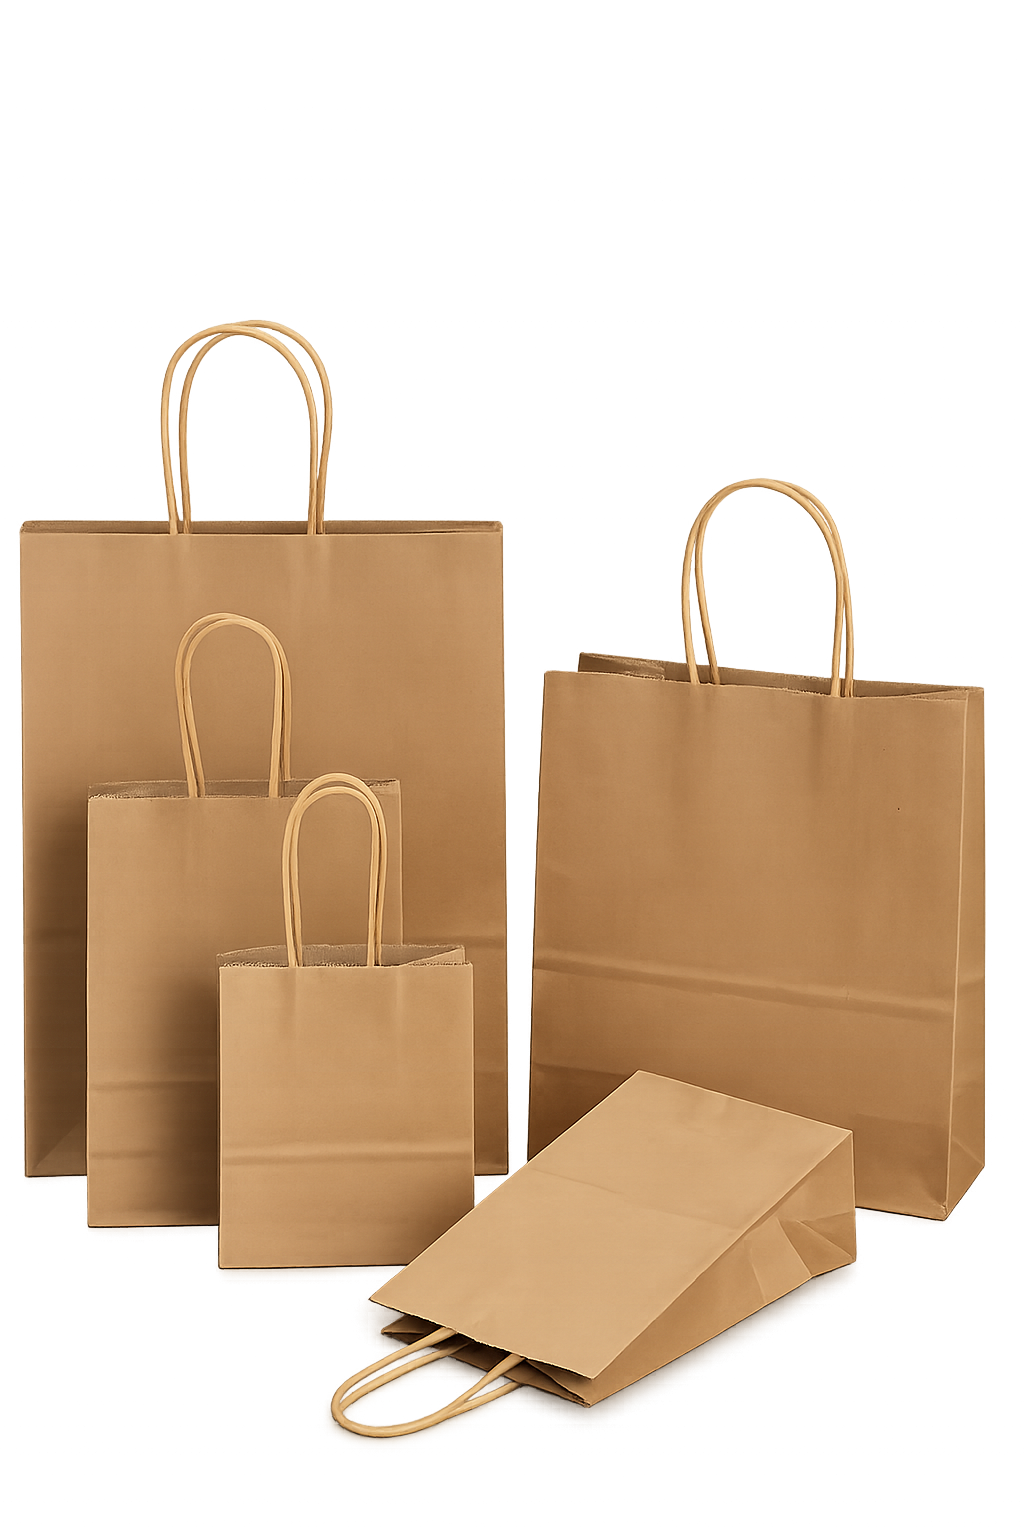
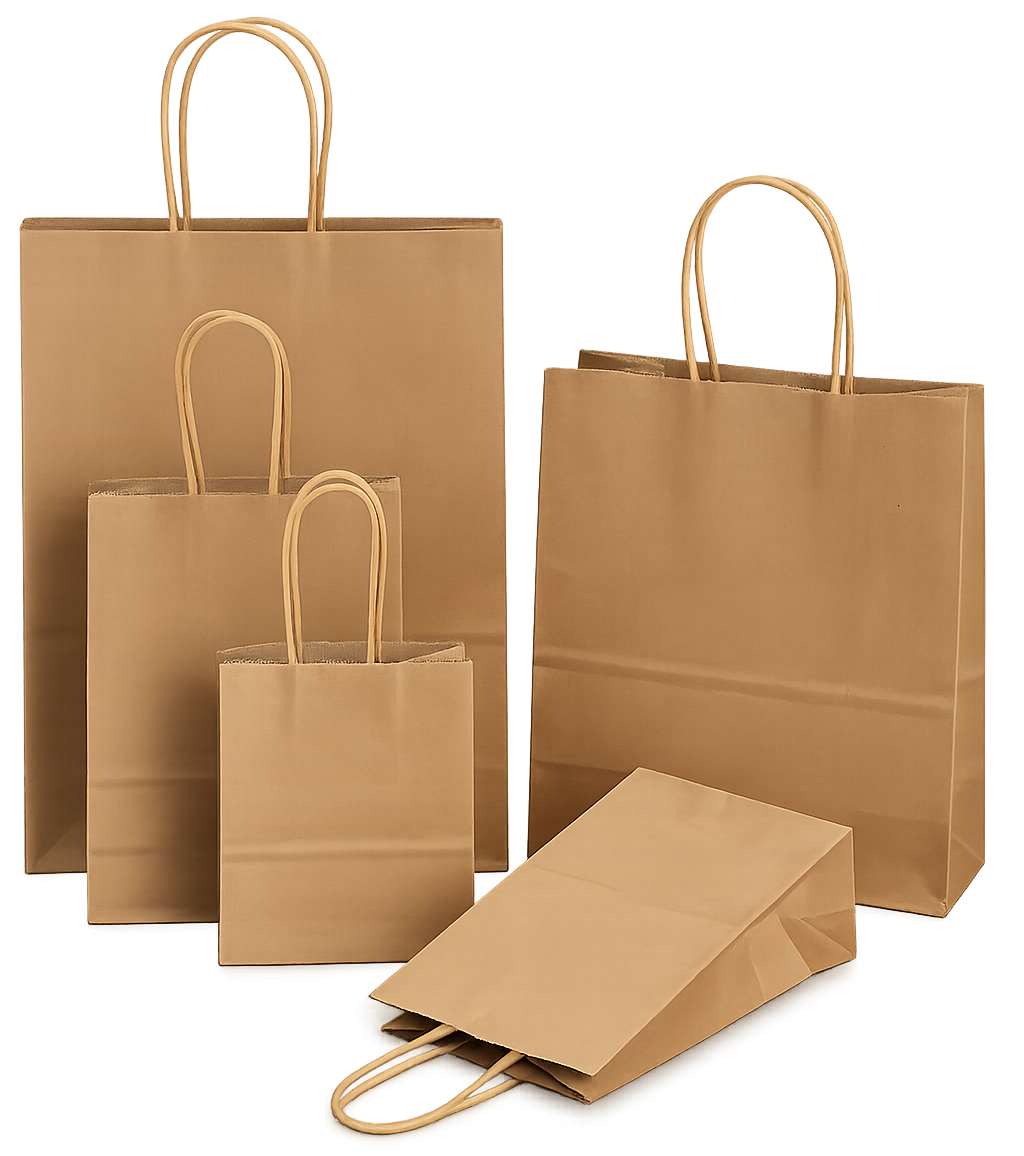
fourth commit

diff --git a/css/style.css b/css/style.css
@@ -419,6 +419,12 @@ img {
     color: var(--color-text);
     position: relative;
     transition: var(--transition);
+    display: flex;
+    flex-direction: column;
+}
+
+.collection-card > a {
+    align-self: center;
 }
 
 .collection-card:hover {
@@ -1089,6 +1095,7 @@ img {
     margin-top: 60px;
 }
 
+
 .promo-banner {
     background-color: var(--color-primary);
     color: var(--color-white);
@@ -1096,18 +1103,33 @@ img {
     display: flex;
     position: relative;
     overflow: hidden;
-    align-items: center;
-    justify-content: space-between;
+    flex-wrap: wrap;
+    padding-bottom: 60vw;
 }
 
-.promo-banner>img {
-    width: 30%;
+.promo-banner__img {
+    position: absolute;
+    top: 100%;
+    right: 100%;
+    transform: translate(83%, -40%);
+    width: 150%;
+    aspect-ratio: 1/1;
+    background-color: #e05252;
+    border-radius: 50%;
+    overflow: hidden;
+}
+
+.promo-banner__img img {
+    width: 100%;
+    height: 100%;
+    object-fit: cover;
+    object-position: top;
 }
 
 .promo-banner__content {
     position: relative;
     z-index: 2;
-    max-width: 90%;
+    width: 100%;
     padding: 40px;
 }
 
@@ -1322,7 +1344,7 @@ select.form-control {
 
 /* --- Inline Styles Replacement --- */
 .bg-about-header {
-    background-image: url('../assets/img/about-us/Rectangle%207.png');
+    background-image: url('../assets/img/new/about\ banner\ image.png');
 }
 
 .bg-video-section {
@@ -1525,6 +1547,20 @@ select.form-control {
         grid-template-columns: 1fr 1fr;
     }
 
+    .promo-banner {
+        padding-bottom: 0;
+    }
+
+    .promo-banner__img {
+        top: 100%;
+        left: 100%;
+        transform: translate(-25%, -75%);
+    }
+
+    .promo-banner__img img {
+        object-position: right center;
+    }
+
     .promo-banner__content {
         max-width: 60%;
     }
@@ -1558,20 +1594,6 @@ select.form-control {
     .contact-layout {
         grid-template-columns: 1fr 1fr;
         align-items: start;
-    }
-
-    .promo-banner:nth-child(1) {
-        background-size: auto 100%;
-        background-position: 120% center;
-        background-repeat: no-repeat;
-        background-image: url('../assets/img/new/Frame\ 1597882199.png');
-    }
-
-    .promo-banner:nth-child(2) {
-        background-size: auto 100%;
-        background-position: 120% center;
-        background-repeat: no-repeat;
-        background-image: url('../assets/img/new/Frame\ 1597882201.png');
     }
 
     .page-header__title {

diff --git a/index.html b/index.html
@@ -95,8 +95,9 @@
                         <div class="collection-card__content">
                             <h3>Paper Bag</h3>
                             <p>Customized eco-friendly paper bags for stylish, durable, and sustainable brand packaging.</p>
-                            <a href="product-detail.html" class="collection-card__link"><i class='bx bx-right-arrow-alt'></i></a>
+                            <!-- <a href="product-detail.html" class="collection-card__link"><i class='bx bx-right-arrow-alt'></i></a> -->
                         </div>
+                        <a href="product-detail.html" class="btn btn--primary btn--sm">Enquiry <i class="bx bx-right-arrow-alt"></i></a>
                     </div>
                     
                     <!-- Card 2 -->
@@ -108,8 +109,9 @@
                         <div class="collection-card__content">
                             <h3>Non - Woven Bag</h3>
                             <p>Eco-friendly, durable, and reusable bags designed for everyday convenience.</p>
-                            <a href="product-detail.html" class="collection-card__link"><i class='bx bx-right-arrow-alt'></i></a>
+                            <!-- <a href="product-detail.html" class="collection-card__link"><i class='bx bx-right-arrow-alt'></i></a> -->
                         </div>
+                        <a href="product-detail.html" class="btn btn--primary btn--sm">Enquiry <i class="bx bx-right-arrow-alt"></i></a>
                     </div>
                     
                     <!-- Card 3 -->
@@ -121,8 +123,9 @@
                         <div class="collection-card__content">
                             <h3>Retail Bag</h3>
                             <p>Customized eco-friendly paper bags for stylish, durable, and sustainable brand packaging.</p>
-                            <a href="product-detail.html" class="collection-card__link"><i class='bx bx-right-arrow-alt'></i></a>
+                            <!-- <a href="product-detail.html" class="collection-card__link"><i class='bx bx-right-arrow-alt'></i></a> -->
                         </div>
+                        <a href="product-detail.html" class="btn btn--primary btn--sm">Enquiry <i class="bx bx-right-arrow-alt"></i></a>
                     </div>
                 </div>
                 
@@ -175,7 +178,7 @@
         <!-- Our Process Section -->
         <section class="process section-padding bg-primary">
             <div class="container">
-                <div class="section-heading section-heading--light mb-50">
+                <div class="section-heading section-heading--center section-heading--light mb-50">
                     <h2 class="section-title">Our Process</h2>
                 </div>
                 
@@ -224,7 +227,7 @@
         <!-- Clients Section -->
         <section class="clients section-padding">
             <div class="container">
-                <div class="section-heading">
+                <div class="section-heading section-heading--center">
                     <h2 class="section-title">Our <span class="text-secondary">Clients</span></h2>
                 </div>
                 
@@ -402,7 +405,7 @@
             <div class="footer__col">
                 <h4 class="footer__title">Address</h4>
                 <p class="footer__address">8/698 Seadapalayam Road,<br>Arulpuram(PO), Palladam(TK),<br>Tirupur, Tamilnadu, INDIA.</p>
-                <p class="footer__contact">Phone : [phone redacted]<br>&nbsp;&nbsp;&nbsp;&nbsp;&nbsp;&nbsp;&nbsp;&nbsp;&nbsp;&nbsp;&nbsp;&nbsp;&nbsp;[phone redacted]</p>
+                <p class="footer__contact">Phone : [phone redacted], [phone redacted]</p>
                 <p class="footer__contact">Email : [email redacted]</p>
             </div>
         </div>

diff --git a/products.html b/products.html
@@ -210,7 +210,7 @@
                 <!-- Promotional Banners -->
                 <div class="promo-banners">
                     <!-- Banner 1 -->
-                    <div class="promo-banner" class="promo-banner bg-promo-1">
+                    <div class="promo-banner bg-promo-1">
                         <div class="promo-banner__content">
                             <h3 class="promo-banner__title">Customization Options</h3>
                             <p class="mb-50 text-white" class="mb-50 text-white opacity-90">We provide complete customization solutions to create packaging that perfectly represents your business identity.</p>
@@ -223,17 +223,21 @@
                             </ul>
                             <a href="#" class="btn btn--outline-light">What's App <i class='bx bxl-whatsapp'></i></a>
                         </div>
-                        <!-- <img src="assets/img/new/Frame 1597882199.png" alt=""> -->
+                        <div class="promo-banner__img">
+                            <img src="assets/img/home-page/hero-banner.png" alt="">
+                        </div>
                     </div>
                     
                     <!-- Banner 2 -->
-                    <div class="promo-banner" class="promo-banner bg-promo-2">
+                    <div class="promo-banner bg-promo-2">
                         <div class="promo-banner__content">
                             <h3 class="promo-banner__title">Looking for Bulk Packaging Orders?</h3>
                             <p class="mb-50 text-white" class="mb-50 text-white opacity-90">Get customized eco-friendly paper bags manufactured according to your business requirements with competitive pricing and premium quality.</p>
                             <a href="contact.html" class="btn btn--outline-light">Contact Us <i class='bx bx-right-arrow-alt'></i></a>
                         </div>
-                        <!-- <img src="assets/img/new/Frame 1597882201.png" alt=""> -->
+                        <div class="promo-banner__img">
+                            <img src="assets/img/home-page/home-about-sec.png" alt="">
+                        </div>
                     </div>
                 </div>
             </div>
@@ -395,7 +399,7 @@
             <div class="footer__col">
                 <h4 class="footer__title">Address</h4>
                 <p class="footer__address">8/698 Seadapalayam Road,<br>Arulpuram(PO), Palladam(TK),<br>Tirupur, Tamilnadu, INDIA.</p>
-                <p class="footer__contact">Phone : [phone redacted]<br>&nbsp;&nbsp;&nbsp;&nbsp;&nbsp;&nbsp;&nbsp;&nbsp;&nbsp;&nbsp;&nbsp;&nbsp;&nbsp;[phone redacted]</p>
+                <p class="footer__contact">Phone : [phone redacted], [phone redacted]</p>
                 <p class="footer__contact">Email : [email redacted]</p>
             </div>
         </div>

diff --git a/about.html b/about.html
@@ -47,7 +47,7 @@
 
     <main>
         <!-- Page Header -->
-        <section class="page-header" class="page-header bg-about-header">
+        <section class="page-header bg-about-header">
             <div class="container">
                 <span class="page-header__subtitle">About</span>
                 <h1 class="page-header__title">Supreme Pro Bag</h1>
@@ -208,7 +208,7 @@
             <div class="footer__col">
                 <h4 class="footer__title">Address</h4>
                 <p class="footer__address">8/698 Seadapalayam Road,<br>Arulpuram(PO), Palladam(TK),<br>Tirupur, Tamilnadu, INDIA.</p>
-                <p class="footer__contact">Phone : [phone redacted]<br>&nbsp;&nbsp;&nbsp;&nbsp;&nbsp;&nbsp;&nbsp;&nbsp;&nbsp;&nbsp;&nbsp;&nbsp;&nbsp;[phone redacted]</p>
+                <p class="footer__contact">Phone : [phone redacted], [phone redacted]</p>
                 <p class="footer__contact">Email : [email redacted]</p>
             </div>
         </div>

diff --git a/contact.html b/contact.html
@@ -153,7 +153,7 @@
             <div class="footer__col">
                 <h4 class="footer__title">Address</h4>
                 <p class="footer__address">8/698 Seadapalayam Road,<br>Arulpuram(PO), Palladam(TK),<br>Tirupur, Tamilnadu, INDIA.</p>
-                <p class="footer__contact">Phone : [phone redacted]<br>&nbsp;&nbsp;&nbsp;&nbsp;&nbsp;&nbsp;&nbsp;&nbsp;&nbsp;&nbsp;&nbsp;&nbsp;&nbsp;[phone redacted]</p>
+                <p class="footer__contact">Phone : [phone redacted], [phone redacted]</p>
                 <p class="footer__contact">Email : [email redacted]</p>
             </div>
         </div>

diff --git a/product-detail.html b/product-detail.html
@@ -152,7 +152,7 @@
             <div class="footer__col">
                 <h4 class="footer__title">Address</h4>
                 <p class="footer__address">8/698 Seadapalayam Road,<br>Arulpuram(PO), Palladam(TK),<br>Tirupur, Tamilnadu, INDIA.</p>
-                <p class="footer__contact">Phone : [phone redacted]<br>&nbsp;&nbsp;&nbsp;&nbsp;&nbsp;&nbsp;&nbsp;&nbsp;&nbsp;&nbsp;&nbsp;&nbsp;&nbsp;[phone redacted]</p>
+                <p class="footer__contact">Phone : [phone redacted], [phone redacted]</p>
                 <p class="footer__contact">Email : [email redacted]</p>
             </div>
         </div>